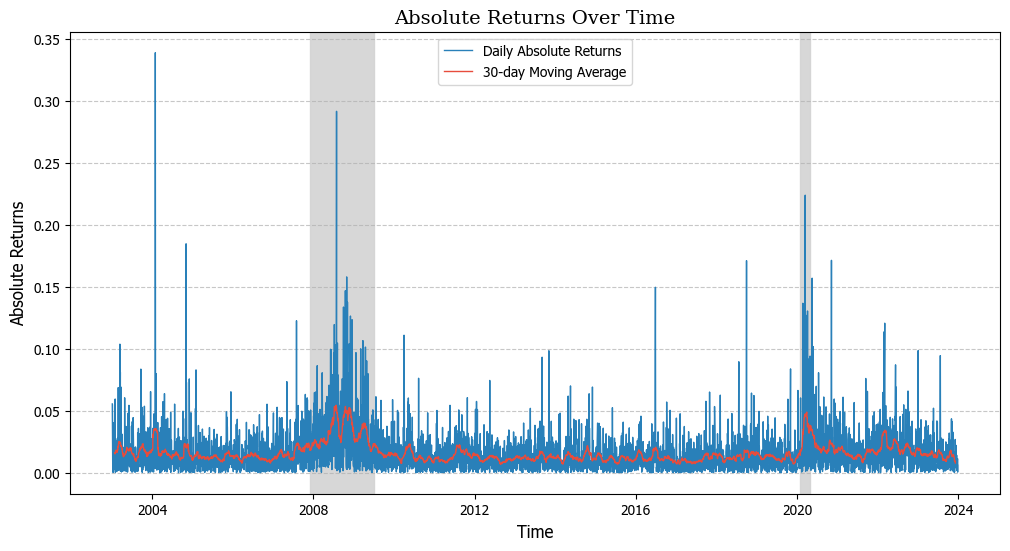
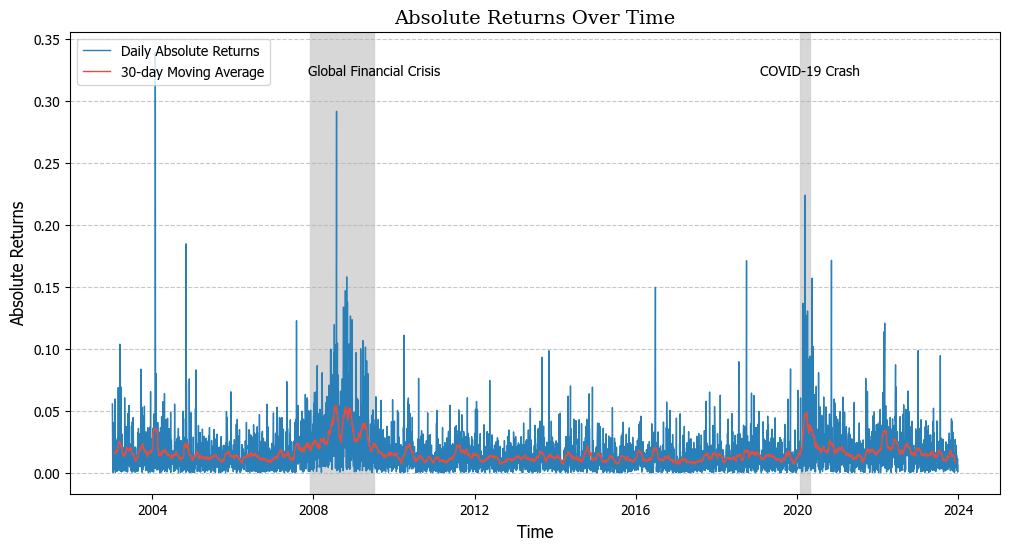
descriptive stats

Changed region(s): [[0.3069, 0.0617, 0.6446, 0.1543], [0.0921, 0.0617, 0.2762, 0.1543], [0.7673, 0.1234, 0.8594, 0.1543]]

diff --git a/RYAAY_distribution.py b/RYAAY_distribution.py
@@ -6,8 +6,8 @@ rcParams['font.sans-serif'] = ['Tahoma']
 import matplotlib.pyplot as plt
 import math
 import numpy as np
-from collections import defaultdict
-from scipy.stats import norm
+from statistics import mode, median, variance
+from scipy.stats import norm, skew, kurtosis, jarque_bera
 
 def get_distribution_data(returns):
     
@@ -15,7 +15,7 @@ def get_distribution_data(returns):
     mean_returns = np.mean(returns)
     std_returns = np.std(returns)
     
-    deviations = [.25, .5, .75, 1, 1.5, 2, 2.5 ,3]
+    deviations = [.25, .5, .75, 1, 1.5, 2, 2.5 ,3, 4, 5, 6]
     returns_cdf = {}
     normal_cdf = {}
     
@@ -39,18 +39,63 @@ def get_distribution_data(returns):
     print("\nCDF Data (cum):")
     for deviation in deviations:
         print(f"Std. Deviation: {float(deviation):.2f} | RYAAY: {returns_cdf[deviation]:.2f} | Normal: {normal_cdf[deviation]:.2f} | Disc.: {(returns_cdf[deviation]-normal_cdf[deviation]):.2f}")
-    print(f"Outliers | RYAAY: {100-returns_cdf[3]:.2f} | Normal: {100-normal_cdf[3]:.2f} | Disc.: {(100-returns_cdf[3]-(100-normal_cdf[3])):.2f}")
     
-    print("\nCDF Data:")
+    print("\nCDF Data: (range)")
+    prev_deviation = 0
     returns_cdf_prev = 0
     norm_cdf_prev = 0
     for deviation in deviations:
         returns_cdf_delta = returns_cdf[deviation]-returns_cdf_prev
         norm_cdf_delta = normal_cdf[deviation]-norm_cdf_prev
-        print(f"Std. Deviation: {float(deviation):.2f} | RYAAY: {returns_cdf_delta:.2f} | Normal: {norm_cdf_delta:.2f} | Disc.: {(returns_cdf_delta-norm_cdf_delta):.2f}")
+        print(f"Std. Deviation: {float(prev_deviation):.2f} - {float(deviation):.2f} | RYAAY: {returns_cdf_delta:.2f} | Normal: {norm_cdf_delta:.2f} | Disc.: {(returns_cdf_delta-norm_cdf_delta):.2f}")
+        prev_deviation = deviation
         returns_cdf_prev = returns_cdf[deviation]
         norm_cdf_prev = normal_cdf[deviation]
+    print(f"Std. Deviation: > 6         | RYAAY: {100-returns_cdf[6]:.2f} | Normal: {100-normal_cdf[6]:.2f} | Disc.: {(100-returns_cdf[6]-(100-normal_cdf[6])):.2f}")
+
+def get_descriptive_stats(returns):
     
+    # Central tendancy
+    mean_returns = np.mean(returns)
+    mode_returns = mode(returns)
+    median_returns = median(returns)
+    
+    # Spread
+    dev_returns = np.std(returns)
+    sample_var_return = variance(returns)
+    data_range_return = max(returns) - min(returns)
+    
+    # Skewness / Kurtosis
+    data_skewness = skew(returns)
+    data_kurtosis = kurtosis(returns)
+    
+    # Autocorrelation
+    lag = 10
+    lags = range(1, lag + 1)
+    autocorrelations = [np.corrcoef(returns[:-lag], returns[lag:])[0, 1] for lag in lags]
+    
+    # Min / Max
+    min_returns = min(returns)
+    max_returns = max(returns)
+    
+    # Jarque-Bera
+    test_statistic, p_value = jarque_bera(returns)
+    
+    # Print the stats
+    print("Mean:", mean_returns)
+    print("Mode:", mode_returns)
+    print("Median:", median_returns)
+    print("Standard Deviation:", dev_returns)
+    print("Sample Variation:", sample_var_return)
+    print("Range:", data_range_return)
+    print("Skewness", data_skewness)
+    print("Kurtosis:", data_kurtosis)
+    for lag, autocorr in zip(range(1, lag + 1), autocorrelations):
+        print(f"Autocorrelation at Lag {lag}: {autocorr}")
+    print("Minimum:", min_returns)
+    print("Maximum:", max_returns)
+    print("Jarque-Bera p-value:", p_value)
+
 def ectract_close_prices(input_file_path, start_date, end_date):
     prices = []
     dates = []
@@ -97,9 +142,9 @@ for i in range(len(close_prices)):
 mean_returns = np.mean(returns)
 std_returns = np.std(returns)
 
-# Print the returns cdf stats
+# Print the returns returns stats
 get_distribution_data(returns)
-
+get_descriptive_stats(np.abs(returns))
 
 ###################
 # Show Distribution
@@ -148,13 +193,17 @@ moving_average = np.convolve(np.abs(returns), np.ones(ma_window)/ma_window, mode
 plt.figure(figsize=(12, 6))
 plt.plot(dates[1:], np.abs(returns), color='#2980b9', label='Daily Absolute Returns', linewidth=1)
 plt.plot(dates[ma_window//2:-ma_window//2], moving_average, color='#e74c3c', label='30-day Moving Average', linewidth=1)
-# Adding vertical lines for each crash interval
+
+# Adding crash data
 for start_date, end_date in get_crash_dates_intervals():
     plt.axvspan(start_date, end_date, color='lightgrey', alpha=0.9)
+plt.text(get_crash_dates_intervals()[0][1], plt.ylim()[1] * 0.9, 'Global Financial Crisis', horizontalalignment='center')
+plt.text(get_crash_dates_intervals()[1][1], plt.ylim()[1] * 0.9, 'COVID-19 Crash', horizontalalignment='center')
+
 plt.xlabel('Time', fontsize=12)
 plt.ylabel('Absolute Returns', fontsize=12)
 plt.title('Absolute Returns Over Time', fontsize=14, fontfamily='serif')
-plt.legend(fontsize=10)
+plt.legend(fontsize=10, loc='upper left')
 plt.grid(axis='y', linestyle='--', alpha=0.7)
 plt.tick_params(axis='both', which='major', labelsize=10)
 #plt.show()
